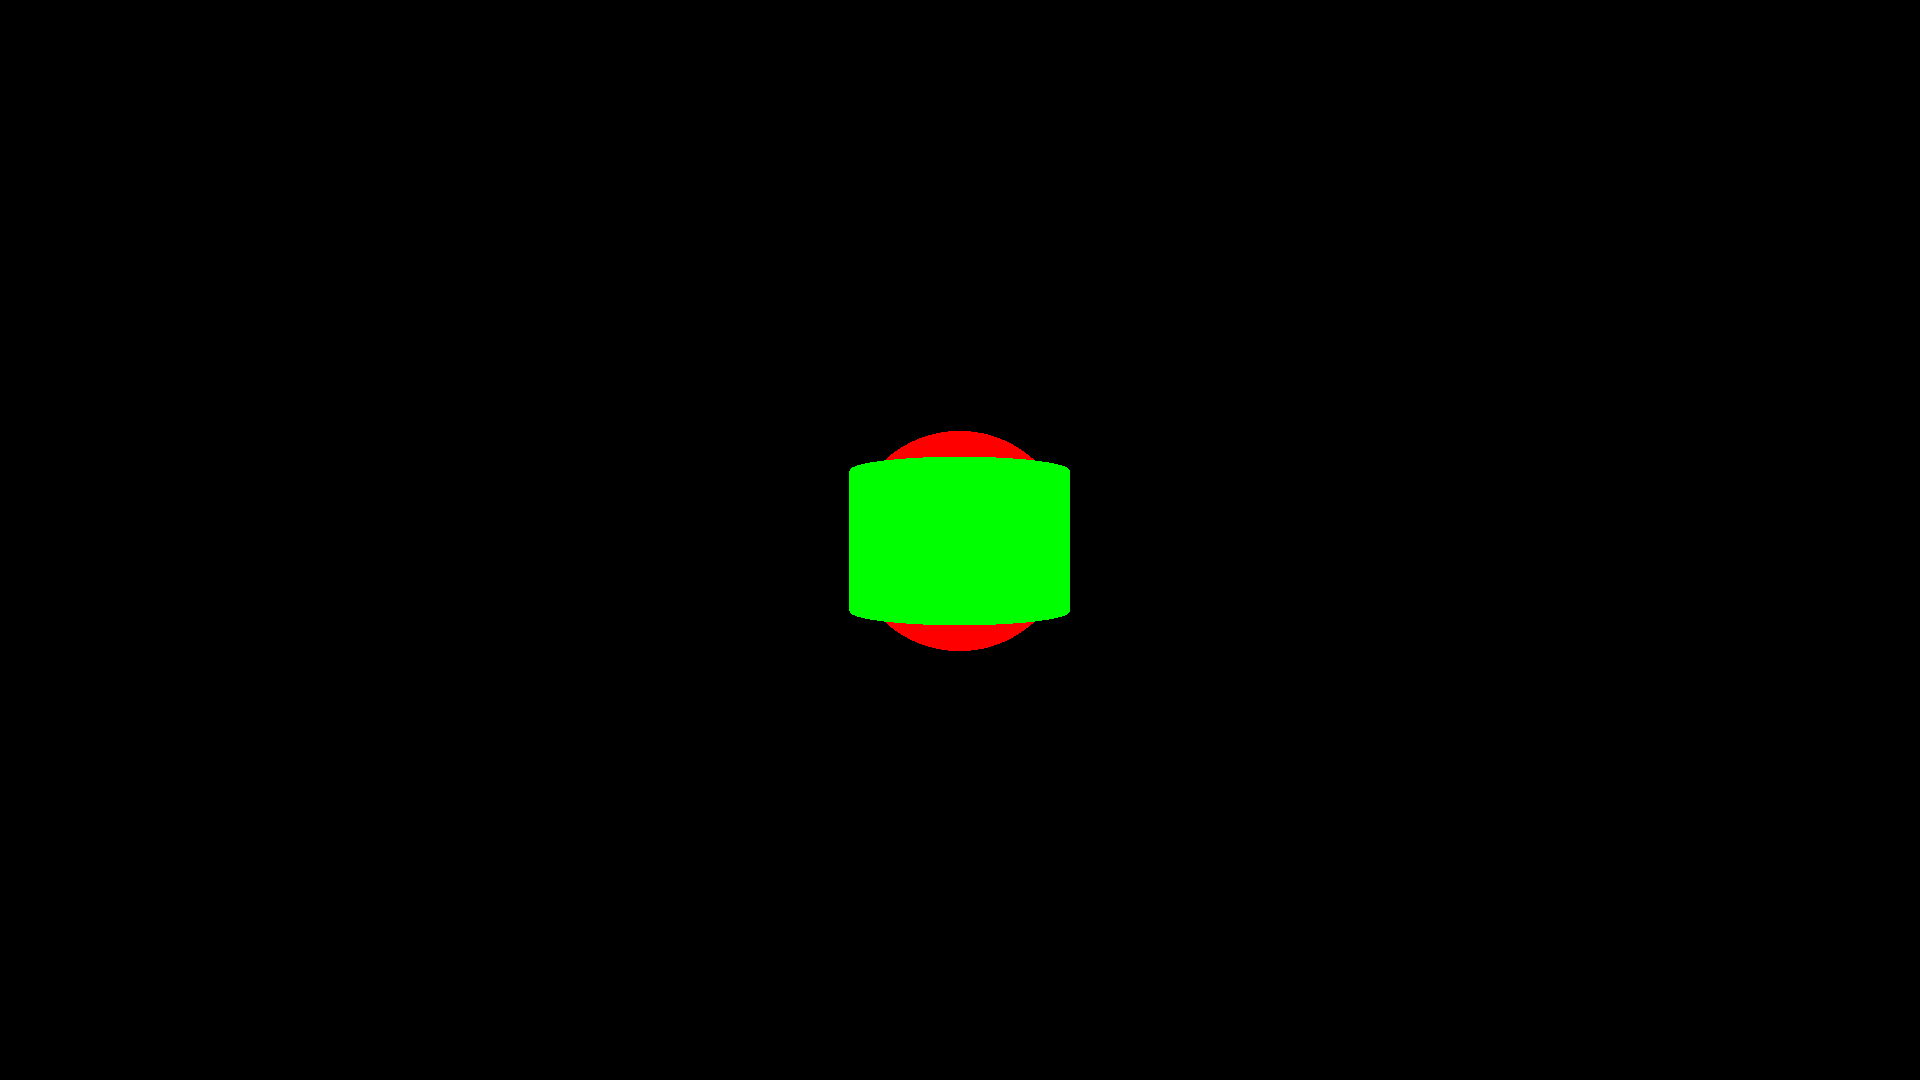
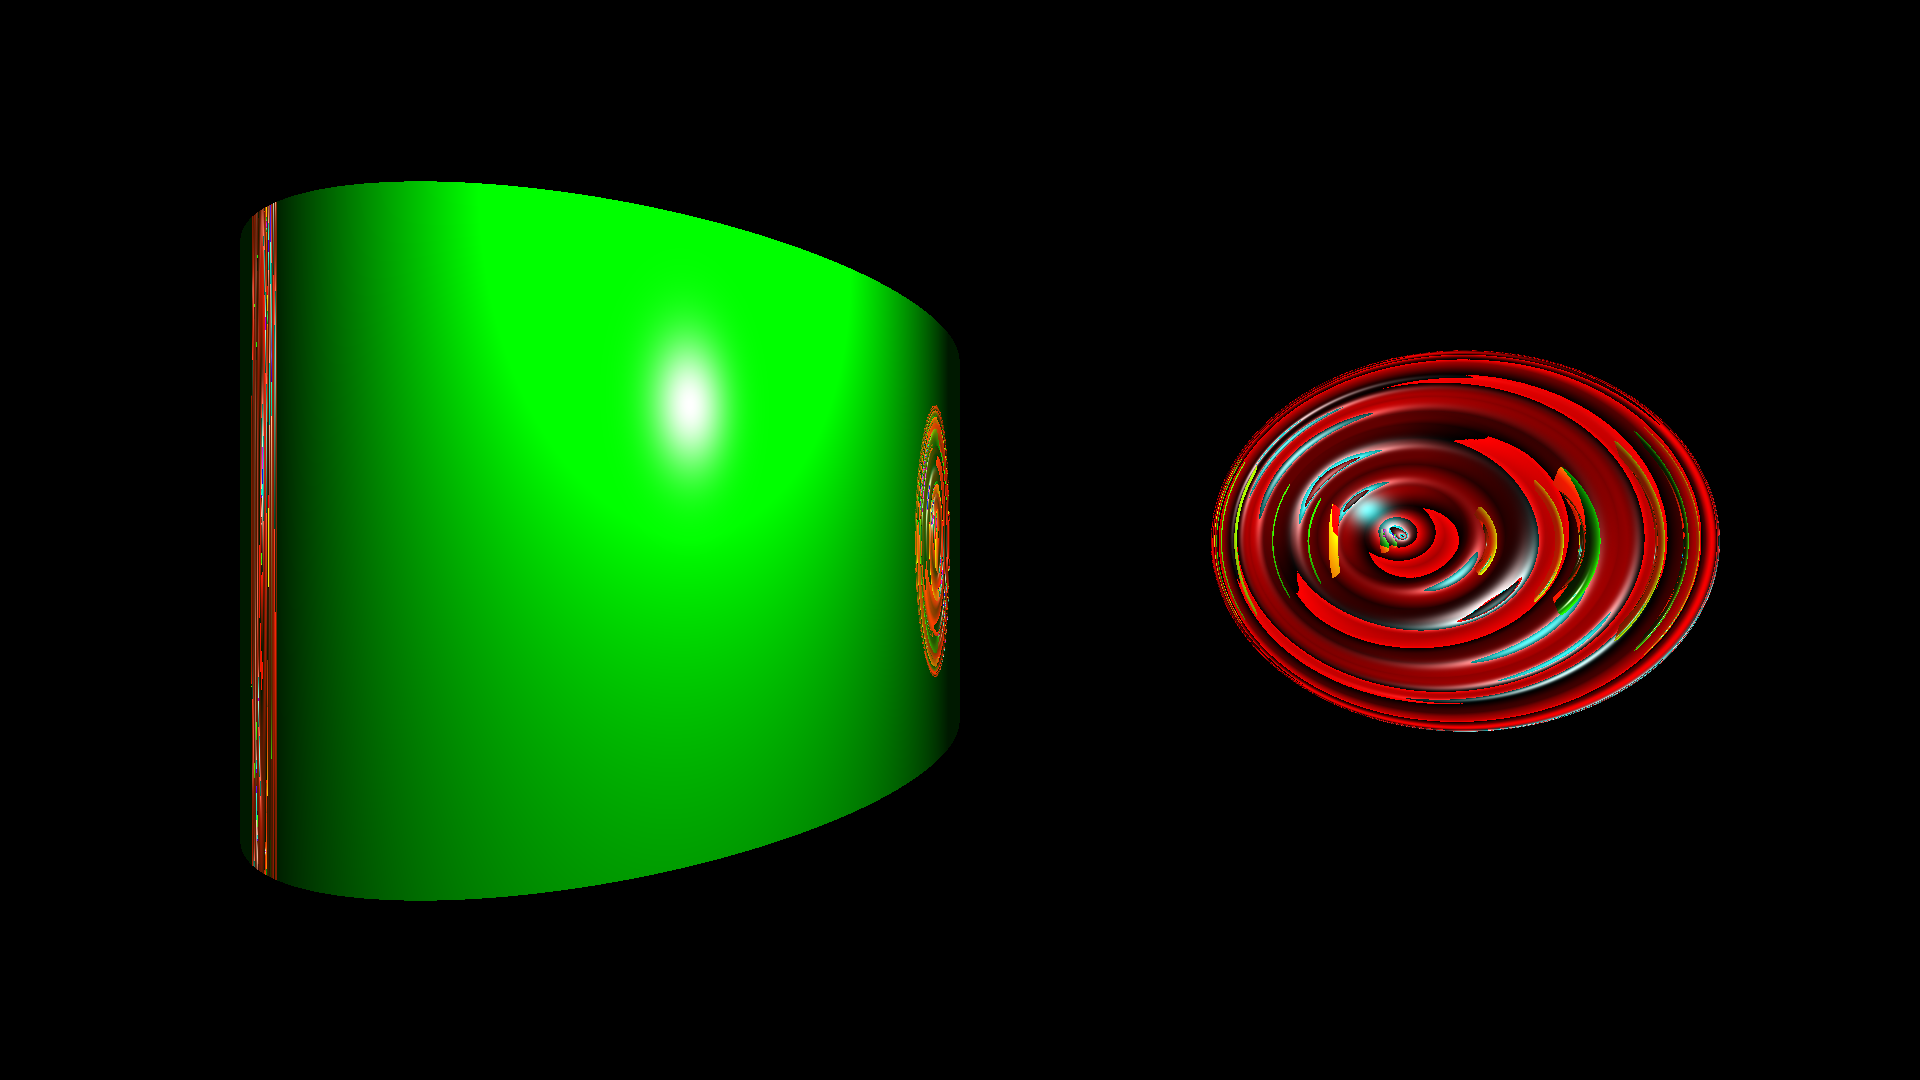
Add ray tracing algorithm with bugs and TODOs

diff --git a/src/Ray.cpp b/src/Ray.cpp
@@ -1,42 +1,116 @@
-#include <vector>
+#include <cmath>
 
 #include <glm/glm.hpp>
+#include <glm/gtx/norm.hpp>
+#include <glm/gtc/constants.hpp>
 
+#include "Solids/Solid.hpp"
 #include "Ray.hpp"
-
 #include "Light.hpp"
+
+auto constexpr MAX_DEPTH = 5;
+auto constexpr BACKGROUND_COLOR = Pixel{ 0, 0, 0 };
 
 float attenuation(float distance)
 {
+    // TODO: Perform calculation
     return 1.f;
 }
 
-
-Pixel Ray::calculateColor(Material material, glm::vec3 normal, float distance, RayHit hit)
+Pixel Ray::calculateColor(std::vector<std::unique_ptr<Solid>> &solids, int depth)
 {
-    Light light{ glm::vec3(1.f), .5f, 1.f };
+    // TODO: Move to another function
+    std::optional<RayHit> hit;
+    unsigned int nearestIntersectionZ = UINT32_MAX;
+    for (auto& solid : solids)
+    {
+        if (auto intersection = solid->intersect(*this); intersection.has_value()) // TODO: See if we can get rid of the has_value()
+        {
+            if (nearestIntersectionZ > intersection->position.z)
+            {
+                nearestIntersectionZ = intersection->position.z;
+                hit = intersection;
+            }
+        }
+    }
+
+    if (hit.has_value())
+    {
+        return _calculateColor(*(hit), solids, depth);
+    }
+    else
+    {
+        return BACKGROUND_COLOR;
+    }
+}
+
+Pixel Ray::_calculateColor(RayHit hit, std::vector<std::unique_ptr<Solid>> &solids, int depth)
+{
+    // TODO: Create singleton with list of lights
+    Light light{ glm::vec3(-.5f, 1.f, 1.f), glm::vec3(1.f), 1.f, .5f };
 
     std::vector<Light> lights;
     lights.push_back(light);
+    
+    const Material& material = hit.solid->getMaterial();
 
     // Ambient light
-    glm::vec3 ambientColor = 1.f * material.diffuseColor;
+    glm::vec3 ambientColor = .1f * material.diffuseColor;
+    glm::vec3 lightColor;
 
-    for (Light light : lights)
+    for (const Light &light : lights)
     {
-        // Diffuse light
-        auto diffuse = material.diffuseColor * glm::dot(normal, hit.position);
+        auto directionToLight = glm::normalize(light.position - hit.position);
 
-        // Specular light
-        auto refect = glm::reflect(direction, normal);
+        // Diffuse color
+        auto diffuse = material.diffuseColor * std::max(glm::dot(hit.normal, directionToLight), 0.f);
 
-        // TODO: See specular factor (pow)
-        auto specularFactor =  1.f;
-        auto specular = material.specularColor * pow(glm::dot(refect, direction), specularFactor);
+        // Specular color
+        auto reflection = glm::normalize(glm::reflect(directionToLight, hit.normal));
+        auto shininess = 64.f; // TODO: See specular factor (pow)
+        auto specular = material.specularColor * pow(std::max(glm::dot(-reflection, glm::normalize(origin - hit.position)), 0.f), shininess);
 
         // TODO: Check S_i
         auto s = 1.f;
 
-        auto lightColor = s * (diffuse + specular) * attenuation(distance) * light.intensity;
+        auto distanceToLight = glm::l2Norm(light.position, hit.position);
+
+        // TODO: If more than one light we need to accumulate
+        lightColor = s * attenuation(distanceToLight) * light.intensity * (diffuse + specular);
     }
+
+    auto ambientAndLight = glm::clamp(
+        ambientColor + lightColor,
+        glm::vec3(0.f),
+        glm::vec3(1.f)
+    );
+    auto color = Pixel{
+        (unsigned char) (ambientAndLight.x * 255.f),
+        (unsigned char) (ambientAndLight.y * 255.f),
+        (unsigned char) (ambientAndLight.z * 255.f)
+    };
+
+    if (!(depth < MAX_DEPTH))
+    {
+        return color;
+    }
+
+    if (material.specular > 0)
+    {
+        auto reflection = glm::reflect(glm::normalize(direction), hit.normal);
+        Ray ray{ hit.position - glm::vec3(glm::epsilon<float>()) * direction, reflection };
+        color = color + ray.calculateColor(solids, depth + 1);
+    }
+
+    if (material.transmission > 0)
+    {
+        // TODO: If angle means total reflection don't do anything
+        auto theta = asin(material.transmission / 1.f); // TODO: Calculate transmission of current medium
+        auto rotationMatrix = glm::rotate(glm::mat4(1.f), theta, direction);
+        auto transmissionDirection = rotationMatrix * glm::vec4(direction, 1.f);
+        Ray ray{ hit.position, glm::vec3(transmissionDirection) };
+        color = color + ray.calculateColor(solids, depth + 1);
+    }
+
+    return color;
 }

diff --git a/src/main.cpp b/src/main.cpp
@@ -10,9 +10,27 @@ int main(void)
 {
     Image image(1080, 1920);
 
+    Material material{
+        glm::vec3(1.f, 0.f, 0.f),
+        glm::vec3(1.f, 1.f, 1.f),
+        glm::vec3(0.f, 0.f, 0.f),
+        1.f,
+        1.f,
+        0.f,
+    };
+
+    Material material2{
+        glm::vec3(0.f, 1.f, 0.f),
+        glm::vec3(1.f, 1.f, 1.f),
+        glm::vec3(0.f, 0.f, 0.f),
+        1.f,
+        1.f,
+        0.f,
+    };
+
     // Solids
-    std::unique_ptr<Sphere> sphere = std::make_unique<Sphere>(glm::vec3(0.f, 0.f, 2.f), .4f);
-    std::unique_ptr<Cylinder> cylinder = std::make_unique<Cylinder>(glm::vec3(0.f, 0.f, 2.f), .4f, .5f);
+    std::unique_ptr<Sphere> sphere = std::make_unique<Sphere>(glm::vec3(2.5f, 0.f, 3.f), 1.f, material);
+    std::unique_ptr<Cylinder> cylinder = std::make_unique<Cylinder>(glm::vec3(-1.5f, 0.f, 3.f), 1.5f, 2.f, material2);
 
     std::vector<std::unique_ptr<Solid>> solids;
     solids.push_back(std::move(sphere));
@@ -33,14 +51,7 @@ int main(void)
 
             auto rowIndex = (image.getHeight() - row);
 
-            for (auto& solid : solids)
-            {
-                if (auto intersection = solid->intersect(ray); intersection.has_value() && nearestIntersection >= intersection->position.z)
-                {
-                    nearestIntersection = intersection->position.z;
-                    image[rowIndex * image.getWidth() + column] = intersection->pixel;
-                }
-            }
+            image[rowIndex * image.getWidth() + column] = ray.calculateColor(solids, 0);
         }
     }
 

diff --git a/src/Solids/Disc.cpp b/src/Solids/Disc.cpp
@@ -2,10 +2,11 @@
 
 #include "../math.hpp"
 
-Disc::Disc(glm::vec3 center, glm::vec3 normal, float radius) :
+Disc::Disc(glm::vec3 center, glm::vec3 normal, float radius, Material material) :
     _center(center),
     _normal(normal),
-    _radius(radius)
+    _radius(radius),
+    Solid(material)
 {
 }
 
@@ -23,7 +24,8 @@ std::optional<RayHit> Disc::intersect(Ray &ray)
         
         if (pointInCircle)
         {
-            return RayHit{ glm::vec3{0.f}, Pixel{0xFF, 0x0, 0x0} };
+            auto normal = calculateNormal(intersectionPoint);
+            return RayHit{ glm::vec3{0.f}, normal, this, Pixel{0xFF, 0x0, 0x0} };
         }
         else
         {
@@ -32,4 +34,9 @@ std::optional<RayHit> Disc::intersect(Ray &ray)
     }
 
     return {};
+}
+
+glm::vec3 Disc::calculateNormal(glm::vec3 point) const
+{
+    return _normal;
 }

diff --git a/src/Solids/Cylinder.cpp b/src/Solids/Cylinder.cpp
@@ -4,8 +4,8 @@
 #include "../math.hpp"
 #include "../Log.hpp"
 
-Cylinder::Cylinder(glm::vec3 center, float radius, float height)
-    : _center(center), _radius(radius), _height(height)
+Cylinder::Cylinder(glm::vec3 center, float radius, float height, Material material)
+    : _center(center), _radius(radius), _height(height), Solid(material)
 {
 }
 
@@ -34,5 +34,12 @@ std::optional<RayHit> Cylinder::intersect(Ray &ray)
     }
 
     auto intersection = ray.origin + t * ray.direction;
-    return RayHit{ intersection, Pixel{0x00, 0xFF, 0x0} };
+    auto normal = calculateNormal(intersection);
+    return RayHit{ intersection, normal, this, Pixel{0x00, 0xFF, 0x0} };
+}
+
+glm::vec3 Cylinder::calculateNormal(glm::vec3 point) const
+{
+    auto difference = point - _center;
+    return glm::vec3(difference.x, 0.f, difference.z);
 }

diff --git a/src/Ray.hpp b/src/Ray.hpp
@@ -1,19 +1,25 @@
 #pragma once
 
+#include <vector>
+#include <memory>
+
 #include <glm/glm.hpp>
 
 #include "Pixel.hpp"
-#include "Solids/Solid.hpp"
+
+class Solid;
+
+struct RayHit
+{
+    glm::vec3 position, normal;
+    Solid *solid;
+    Pixel pixel;
+};
 
 struct Ray
 {
     glm::vec3 origin, direction;
-
-    Pixel calculateColor(Material material, glm::vec3 normal, float distance, RayHit hit);
-};
-
-struct RayHit
-{
-    glm::vec3 position;
-    Pixel pixel;
+    Pixel calculateColor(std::vector<std::unique_ptr<Solid>> &solids, int depth);
+private:
+    Pixel _calculateColor(RayHit hit, std::vector<std::unique_ptr<Solid>> &solids, int depth);
 };

diff --git a/src/Solids/Sphere.cpp b/src/Solids/Sphere.cpp
@@ -19,10 +19,16 @@ std::optional<RayHit> Sphere::intersect(Ray &ray)
     if (t != math::NO_ROOT)
     {
         auto intersection = ray.origin + t * ray.direction;
-        return RayHit{ intersection, Pixel{0xFF, 0x0, 0x0} };
+        auto normal = calculateNormal(intersection);
+        return RayHit{ intersection, normal, this, Pixel{0xFF, 0x0, 0x0} };
     }
     else
     {
         return {};
     }
+}
+
+glm::vec3 Sphere::calculateNormal(glm::vec3 point) const
+{
+    return glm::normalize(point - _center);
 }

diff --git a/src/Solids/Cylinder.hpp b/src/Solids/Cylinder.hpp
@@ -13,6 +13,7 @@ private:
     glm::vec3 _center;
 
 public:
-    Cylinder(glm::vec3 center, float radius, float height);
+    Cylinder(glm::vec3 center, float radius, float height, Material material);
     std::optional<RayHit> intersect(Ray &ray) override;
+    glm::vec3 calculateNormal(glm::vec3 point) const override;
 };

diff --git a/src/Solids/Disc.hpp b/src/Solids/Disc.hpp
@@ -11,7 +11,8 @@ private:
     float _radius;
 
 public:
-    Disc(glm::vec3 center, glm::vec3 normal, float radius);
+    Disc(glm::vec3 center, glm::vec3 normal, float radius, Material material);
 
     std::optional<RayHit> intersect(Ray& ray) override;
+    glm::vec3 calculateNormal(glm::vec3 point) const override;
 };

diff --git a/src/Pixel.hpp b/src/Pixel.hpp
@@ -3,4 +3,12 @@
 struct Pixel
 {
     unsigned char r, g, b;
+    Pixel operator+(const Pixel& other)
+    {
+        return Pixel{
+            (unsigned char) (r + other.r),
+            (unsigned char) (g + other.g),
+            (unsigned char) (b + other.b),
+        };
+    }
 };

diff --git a/src/Solids/Solid.hpp b/src/Solids/Solid.hpp
@@ -19,5 +19,11 @@ protected:
     }
 
 public:
+    virtual ~Solid() {};
     virtual std::optional<RayHit> intersect(Ray& ray) = 0;
+    virtual glm::vec3 calculateNormal(glm::vec3 point) const = 0;
+    Material getMaterial() const
+    {
+        return _material;
+    }
 };

diff --git a/src/Solids/Sphere.hpp b/src/Solids/Sphere.hpp
@@ -14,4 +14,5 @@ public:
     Sphere(glm::vec3 center, float radius, Material material);
 
     std::optional<RayHit> intersect(Ray &ray) override;
+    glm::vec3 calculateNormal(glm::vec3 point) const override;
 };

diff --git a/src/Light.hpp b/src/Light.hpp
@@ -4,6 +4,6 @@
 
 struct Light
 {
-    glm::vec3 color;
+    glm::vec3 position, color;
     float intensity, decay;
 };
